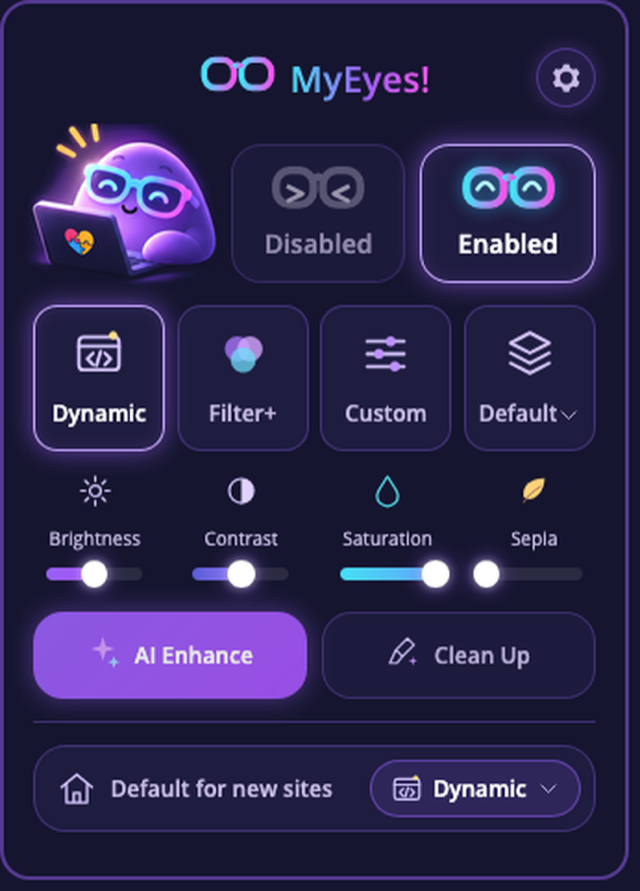
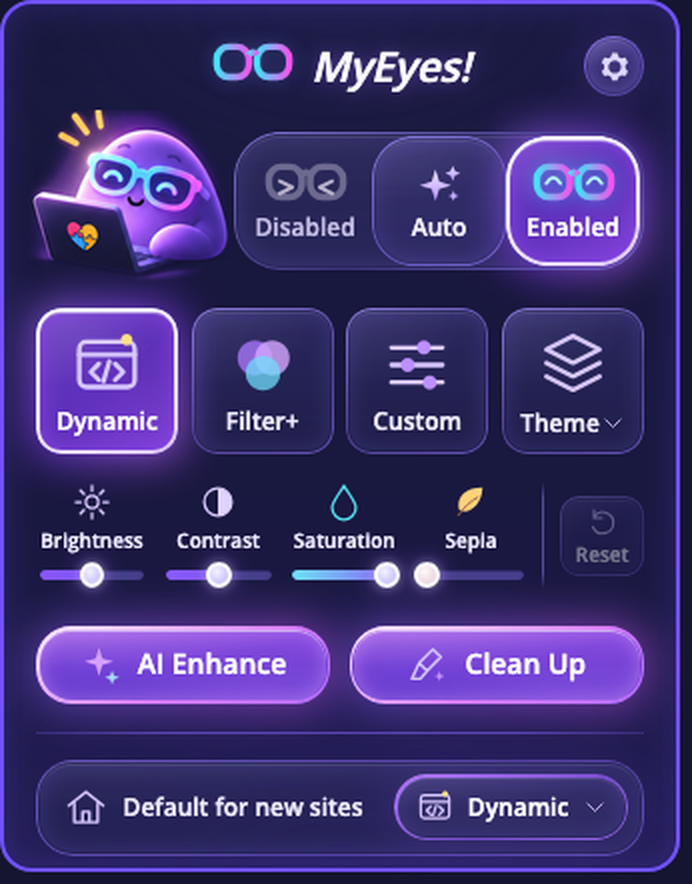
Auto-commit: 2026-11-15 23:57:04 (README.md brand/screenshots/osd.png brand/screenshots/popup-custom.png brand/screenshots/popup-theme-menu.png brand/screenshots/popup.png )

diff --git a/README.md b/README.md
@@ -6,23 +6,57 @@
 
 ---
 
-**MyEyes!** is an open-source (MIT) browser extension that turns any site dark — proactively, keyboard-driven, and easy on photophobic eyes. It's a rebranded fork of [Dark Reader](https://github.com/darkreader/darkreader): it keeps Dark Reader's proven dynamic-theme engine and its community-maintained per-site fixes (fetched and cached at runtime), wrapped in a deliberately minimal UI.
+**MyEyes!** is an open-source (MIT) browser extension that turns any site dark — proactively, keyboard-driven, and easy on photophobic eyes. It's a rebranded fork of [Dark Reader](https://github.com/darkreader/darkreader): it keeps Dark Reader's proven dynamic-theme engine and its community-maintained per-site fixes (fetched and cached at runtime), wrapped in a deliberately small, calm UI: one pane, no tabs, no wall of sliders.
+
+<p align="center">
+  <img width="260" alt="The MyEyes! popup" src="brand/screenshots/popup.png">
+  &nbsp;
+  <img width="260" alt="The popup on a site with its own tweaks: Custom is lit and Reset is available" src="brand/screenshots/popup-custom.png">
+  &nbsp;
+  <img width="260" alt="The Theme menu, listing saved themes" src="brand/screenshots/popup-theme-menu.png">
+</p>
 
 ## Features
 
-- 🌙 Proactive dark mode for every website — Dark Reader's dynamic engine
-- 🔄 Community per-site fixes, fetched & cached from upstream at runtime
-- 🧩 Minimal, keyboard-first UI — no tabs, no clutter
+**Dark by default**
 
-**Roadmap:** named reusable themes · keyboard commands for all toggles · community userstyles (UserStyles.world / USO) · AI-enhanced page adaptation using **local, on-device models** (declutter, improve readability — nothing leaves your machine).
+- 🌙 Proactive dark mode for every website, using Dark Reader's dynamic engine, or **Filter+** (a simpler, filter-based engine) when you prefer it.
+- 🔄 Community per-site fixes, fetched and cached from upstream at runtime, with a bundled offline fallback, so popular sites keep looking right.
 
-## Screenshots
+**One pane, per site**
+
+- **Disabled · Auto · Enabled** for the current site. *Auto* (every site's default) darkens a page unless it's already dark, *Enabled* always darkens it, *Disabled* leaves it alone.
+- **Dynamic · Filter+ · Custom · Theme** cards show where the site's look comes from, with **Brightness, Contrast, Saturation and Sepia** sliders under them.
+- **Named, reusable themes.** Move a slider and the site quietly forks its theme (a pink dot marks unsaved changes). *Save*, *Save as…* or *Revert* from the Theme menu, pin any saved theme to any site, or make one the **Default for new sites**.
+- **Tweaks aren't lost by accident.** Switching cards or themes parks a site's own settings, and the Custom card brings them back. **Reset** (two clicks) drops them for good.
+
+**Keyboard-first**
+
+| Shortcut | Does |
+| --- | --- |
+| `Alt+Shift+A` | Toggle darkening for this site |
+| `Alt+Shift+T` | Next theme for this site: Dynamic → Filter+ → Custom (if the site has tweaks) → each saved theme → … |
+| *unbound* | Turn MyEyes! on or off everywhere |
+| *unbound* | Next default theme for new sites |
+
+(`Alt` is `Option` on macOS.) Rebind or add the two unbound ones in the extension's Hotkeys options, in Firefox at `about:addons` → ⚙ → *Manage Extension Shortcuts*, or in Chrome at `chrome://extensions/shortcuts`.
+
+**Built for sensitive eyes**
+
+- Every shortcut answers with a small **on-screen confirmation**: what changed, and on which site. It's click-through, never takes focus, honors *reduce motion*, and **stays dark even on pages a filter engine inverts**, so the confirmation itself can't flash you.
 
 <p align="center">
-  <img height="340" alt="MyEyes! popup" src="brand/screenshots/popup.png">
-  &nbsp;&nbsp;
-  <img height="340" alt="Hacker News darkened by MyEyes!" src="brand/screenshots/hacker-news-dark.png">
+  <img width="540" alt="On-screen confirmations: Filter+ on example.com, Auto on news.ycombinator.com, MyEyes! off" src="brand/screenshots/osd.png">
 </p>
+
+<p align="center">
+  <img width="420" alt="Hacker News darkened by MyEyes!" src="brand/screenshots/hacker-news-dark.png">
+</p>
+
+## Roadmap
+
+- **Community userstyles** (UserStyles.world / USO-archive) as a second per-site source next to Dark Reader's fixes. A UserCSS reader that sanitizes untrusted community CSS is in the tree; fetching, caching and per-site resolution are next.
+- **AI-enhanced page adaptation using local, on-device models** (declutter, improve readability; nothing leaves your machine). *AI Enhance* and *Clean Up* are placeholders in the popup until this lands. A render metric that scores glare against retained page structure is in the tree to judge the results: models advise, pixels decide.
 
 ## Build
 
@@ -30,8 +64,10 @@ Requires [Node.js](https://nodejs.org/) (LTS+).
 
 ```sh
 npm install
-npm run build      # release build -> build/release/
-npm run debug      # unpacked build -> build/debug/<browser>/
+npm run build        # release build -> build/release/
+npm run debug        # unpacked build -> build/debug/<browser>/
+npm run debug:watch  # same, rebuilt as you edit
+npm test             # unit tests
 ```
 
 Load `build/debug/firefox` via `about:debugging` → *Load Temporary Add-on*.
